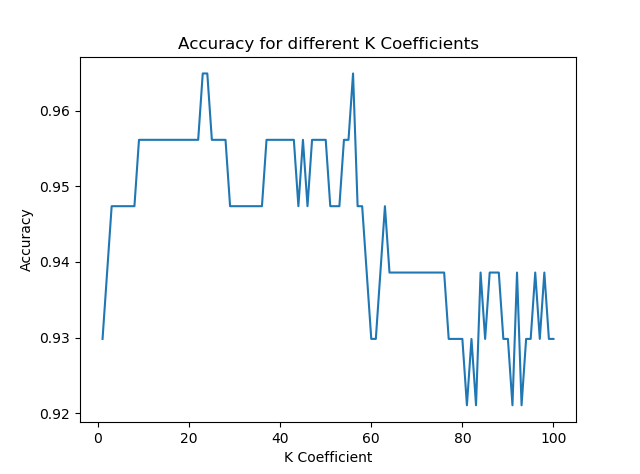
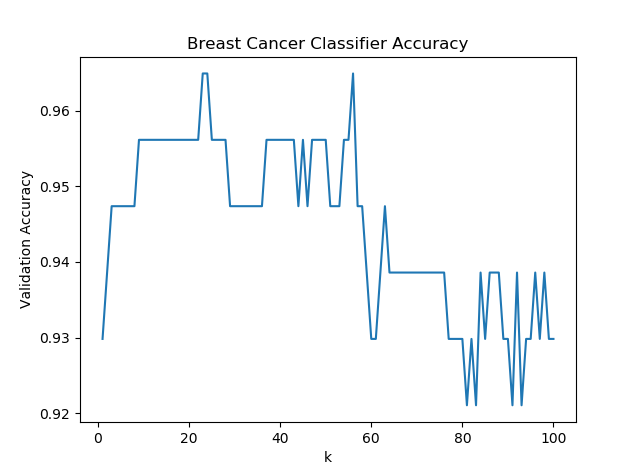
Accuracies

Changed region(s): [[0.2812, 0.0591, 0.75, 0.1181], [0.0312, 0.3544, 0.0625, 0.6498], [0.4375, 0.9451, 0.5938, 0.9747]]

diff --git a/main_script.py b/main_script.py
@@ -19,7 +19,7 @@ k_list = range(1,101)
 
 #plot accuracies for different k coefficients
 plt.plot(k_list, accuracies)
-plt.xlabel("K Coefficient")
-plt.ylabel("Accuracy")
-plt.title("Accuracy for different K Coefficients")
+plt.xlabel("k")
+plt.ylabel("Validation Accuracy")
+plt.title("Breast Cancer Classifier Accuracy")
 plt.show()
